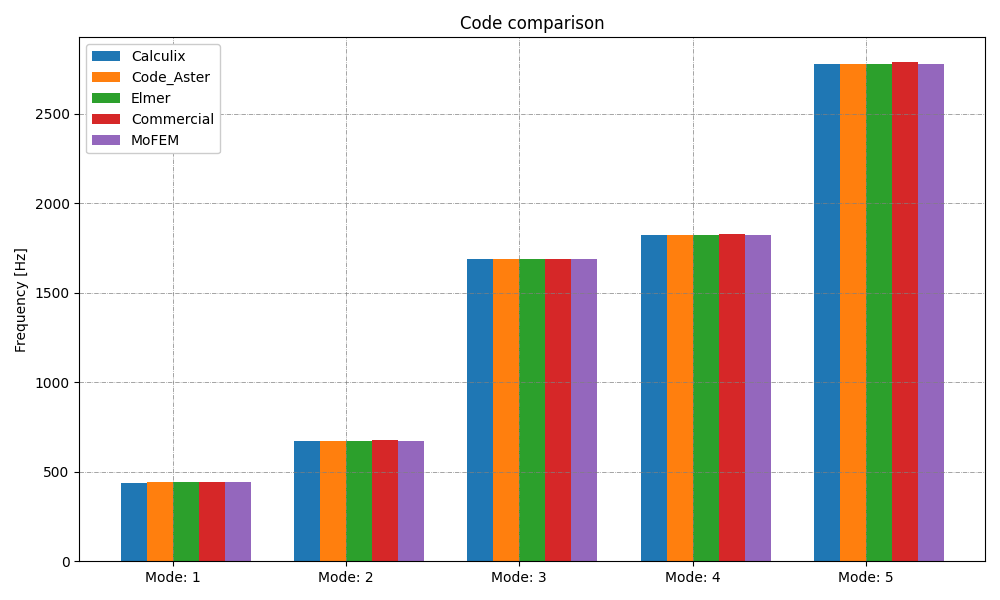
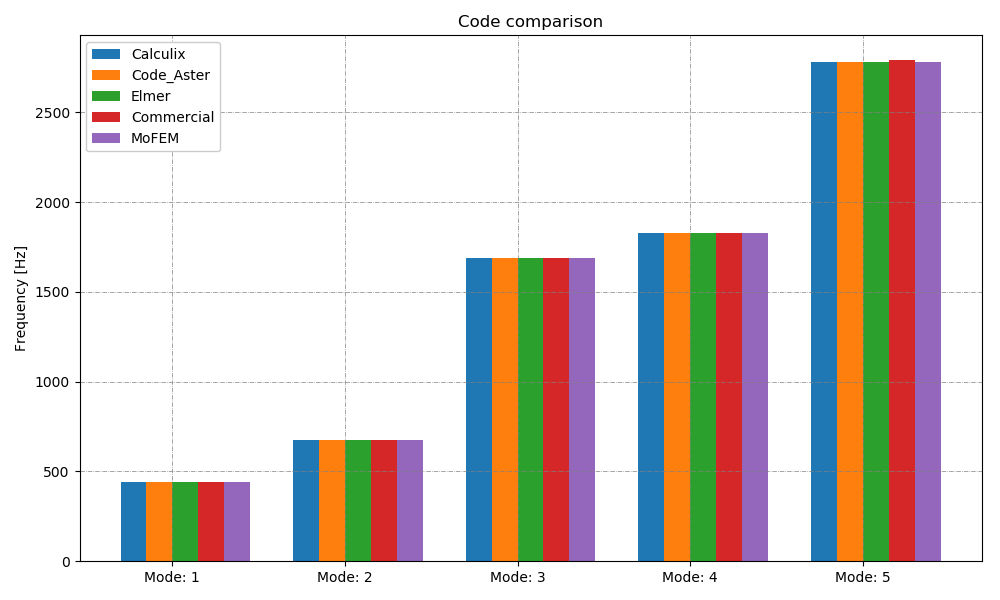
Revert "json chart try"

diff --git a/docs/benchmarks/000-tuning-fork/plot.py b/docs/benchmarks/000-tuning-fork/plot.py
@@ -3,8 +3,6 @@ import matplotlib.pyplot as plt
 plt.close('all')
 import pandas as pd
 import numpy as np
-import json
-import mpld3 as mpld3
 
 def mesh_study():
     plot_title = 'Tetrahedral mesh comparison'
@@ -22,7 +20,7 @@ def mesh_study():
     x = np.arange(len(labels))  # the label locations
 
     width = 0.2  # the width of the bars
-    # plt.style.use('seaborn-white')
+    # plt.style.use('seaborn-white') 
     fig, ax = plt.subplots(figsize=(10,6))
     ax.bar(x - 0.2, ccx_values, width, label='Calculix')
     ax.bar(x, code_aster_values, width, label='Code_Aster')
@@ -58,7 +56,7 @@ def code_comparison():
     x = np.arange(len(labels))  # the label locations
 
     width = 0.15  # the width of the bars
-    # plt.style.use('seaborn-white')
+    # plt.style.use('seaborn-white') 
     fig, ax = plt.subplots(figsize=(10,6))
     ax.bar(x - (1.5 * width), ccx_values, width, label='Calculix')
     ax.bar(x - (0.5 * width), code_aster_values, width, label='Code_Aster')
@@ -81,9 +79,7 @@ def code_comparison():
     plt.grid(color='gray', linestyle='-.', linewidth=0.5)
     fig.savefig(file_name)
     plt.show()
-
-    mpld3.save_json(fig,"figure.json")
-
+    
 if __name__ == "__main__":
     # mesh_study()
     code_comparison()

diff --git a/setup.py b/setup.py
@@ -32,6 +32,5 @@ setup(name='CoFEA',
           'vtk',
           'pyvista',
           'sphinx-book-theme',
-          'sphinx_charts',
           "ipykernel==5.4.3"],
       )

diff --git a/docs/conf.py b/docs/conf.py
@@ -27,7 +27,6 @@ extensions = [
     'sphinx.ext.githubpages',
     'sphinx.ext.napoleon',
     "ablog",
-    'sphinx_charts.charts',
     "myst_parser",
 ]
 

diff --git a/docs/benchmarks/000-tuning-fork/results.md b/docs/benchmarks/000-tuning-fork/results.md
@@ -30,9 +30,14 @@ A few conclusions can be derived from the presented study:
 |              4 |     1827.55 Hz     |  1825.55 Hz |   1825.63 Hz  | 1825.63 Hz | 1825.7 Hz |
 |              5 |     2788.66 Hz     |  2777.73 Hz |   2777.56 Hz  | 2777.56 Hz | 2781.3 Hz |
 
-.. chart:: charts/test.json
-
-    This is the caption of the chart
+```{figure} ./code-comparison.png
+---
+width: 600px
+alt: FE codes comparison
+name: FE codes comparison
+---
+Comparison of FE codes for the tuning fork example
+```
 
 ## Linear tetrahedral mesh
 
@@ -56,7 +61,7 @@ width: 600px
 alt: Tetrahedral mesh comparison
 name: Tetrahedral mesh comparison
 ---
-Graph representing results of the simulation with tetrahedral mesh
+Graph representing results of the simulation with tetrahedral mesh 
 ```
 
 ## Linear hexahedral mesh
@@ -81,5 +86,5 @@ width: 600px
 alt: Hexahedral mesh comparison
 name: Hexahedral mesh comparison
 ---
-Graph representing results of the simulation with hexahedral mesh
+Graph representing results of the simulation with hexahedral mesh 
 ```
